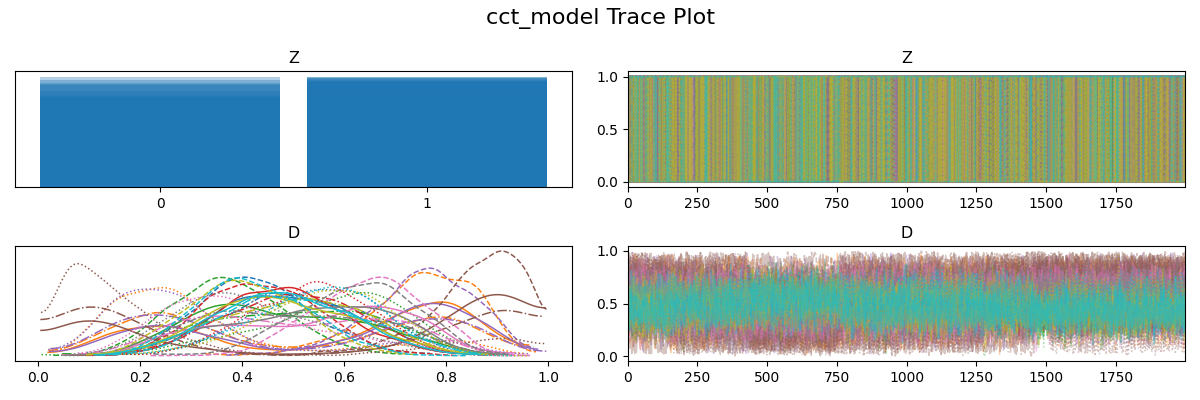
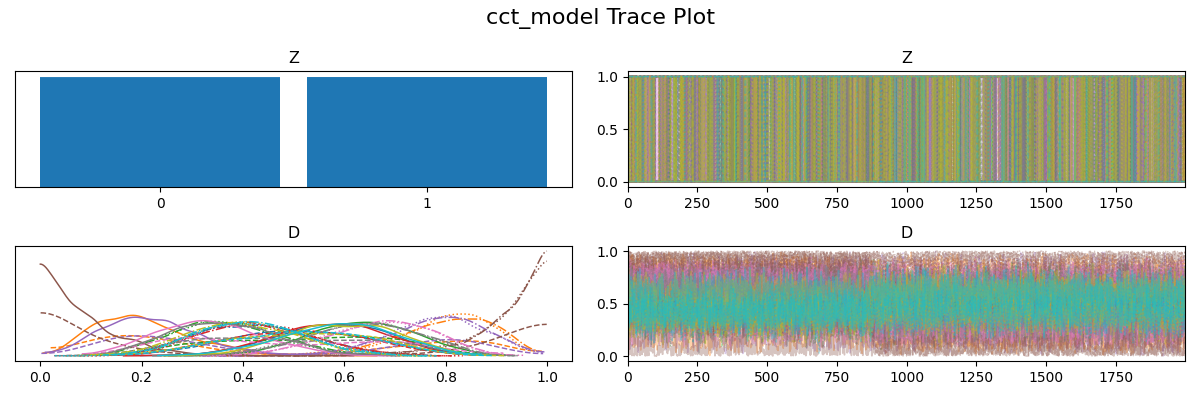
updated file paths & changed model line order

diff --git a/code/cct.py b/code/cct.py
@@ -1,110 +1,82 @@
-#modules
+
+#import modules
 import pandas as pd
+import numpy as np
 import pymc as pm
 import arviz as az
-import numpy as np
-import os
 import matplotlib.pyplot as plt
+from scipy.stats import mode
+from pathlib import Path
 
-###  LOAD DATA
-#read data as pandas dataframe
-df = pd.read_csv('~/project/cct-midterm/data/plant_knowledge.csv')
+#Used ChatGPT to fix file path & plot saving issues with this part
+# Set base path to project root regardless of where script is run
+BASE_DIR = Path(__file__).resolve().parents[1]
+PLOTS_DIR = BASE_DIR / 'plots'
+PLOTS_DIR.mkdir(exist_ok=True)
+
+### LOAD THE DATA
+#read csv into pandas dataframe
+df = pd.read_csv(BASE_DIR / 'data' / 'plant_knowledge.csv')
 df = df.drop(columns='Informant') #drop informant ID column
 print(df)
 #change to numpy array & reshape
 data = df.values
 N,M = data.shape
 
-###  MODEL
-
-#name model
-cct_model = pm.Model()
-
-#define model
-with cct_model:
-    #prior for D (competence) - vector of size N (# informants) 
-    #D = pm.Beta('D', alpha=2, beta=2, shape=N)
-    D = pm.Uniform('D', lower=0, upper=1, shape=N)
+### BUILD MODEL & DEFINE PRIORS
+#build the cct model
+with pm.Model() as cct_model:
+    #prior for D (competence) - vector of size N (# informants)
+    D = pm.Uniform('D', lower=0.5, upper=1.0, shape=N)
     #prior for Z (answer) - vector of size M (# items)
-    Z = pm.Bernoulli('Z',p=0.5, shape=M)
-    #reshape D
-    D_rs = D[:,None]
-    #probability equation
-    prob = Z*D_rs+(1-Z)*(1-D_rs)
-    #likelihood equation - using my updated data
-    Lh = pm.Bernoulli('Lh',p=prob, observed=data)
-    #take sample
-    #-----problem here????
-    idata_cct_model = pm.sample(draws=2000, chains=4, tune=2500, target_accept=0.95)
+    Z = pm.Bernoulli('Z', p=0.5, shape=M)
 
-###   INFERENCE
-#summary of posterior
-az.summary(idata_cct_model)
+    #reshape D 
+    D_reshaped = D[:, None]
 
-#trace plots
-az.plot_trace(idata_cct_model)
-
-#save inferences
-idata_cct_model.to_netcdf("cct_model_results.nc")
-
-#saving/viewing plots - USED CHATGPT FOR THESE FIRST LINES
-FIG_DIR = os.path.join(os.path.dirname(__file__), "..", "plots")
-os.makedirs(FIG_DIR, exist_ok=True)
-
-#save trace plot
-def save_trace_plot(idata, model_name="cct_model"):
+    #probability equation 
+    prob = Z * D_reshaped + (1 - Z) * (1 - D_reshaped)
+    #likelihood equation, using reshaped data
+    Lh = pm.Bernoulli('Lh', p=prob, observed=data)
     
-    #get variable names, except not the likelihood
-    var_names = [v for v in idata.posterior.data_vars if v != "Lh"]
+### PERFORM INFERENCE
+    #take sample
+    trace = pm.sample(draws=2000, chains=4, tune=1000, target_accept=0.9)
 
-    #make trace plot
-    az.plot_trace(idata, var_names=var_names)
-    plt.suptitle(f"{model_name} Trace Plot", fontsize=16)
-    plt.tight_layout()
-    trace_plot_path = os.path.join(FIG_DIR, f"{model_name}_trace_plot.png")
-    plt.savefig(trace_plot_path)
-    plt.close()
-save_trace_plot(idata_cct_model, model_name="cct_model")
-#convergence diagnostics
+#check convergence diagnostics
+summary = az.summary(trace, var_names=['D', 'Z'])
+print(summary)
 
+#visualize posterior dist for competence
+az.plot_posterior(trace, var_names=['D'])
+plt.tight_layout()
+plt.savefig(PLOTS_DIR / 'competence_posteriors.png')
 
 ### ESTIMATE INFORMANT COMPETENCE
-
-#take posterior samples of D
-D_post = idata_cct_model.posterior['D']
-#calc posterior mean for D
-D_mean = D_post.mean(dim=["chain", "draw"])
-print(D_mean)
-
-#make & save plot
-az.plot_posterior(idata_cct_model, var_names=['D'], hdi_prob=0.95)
-plt.suptitle(f"Posterior Distributions of Informant Competence (D)", fontsize=16)
-plt.tight_layout()
-plt.savefig(os.path.join(FIG_DIR, "informant_competence_posterior.png"))
-plt.close()
-
-#-----ISSUES HERE!!
-#find best & worst informants
-most_competent = D_mean.argmax(dim='informant')
-least_competent = D_mean.argmin(dim='informant')
-print(most_competent)
-print(least_competent)
+#find most and least competent informants
+competences = trace.posterior['D'].mean(dim=('chain','draw')).values
+most_competent = np.argmax(competences)
+least_competent = np.argmin(competences)
+print(f'most competent informant: {most_competent}, competence value: {competences[most_competent]:.2f}')
+print(f'least competent informant: {least_competent}, competence value: {competences[least_competent]:.2f}')
 
 ### ESTIMATE CONSENSUS ANSWERS
+#posterior mean prob for each answer consensus (Z)
+consensus_probs = trace.posterior['Z'].mean(dim=('chain','draw')).values
+print('posterior mean consensus probabilities:')
+print(consensus_probs)
 
-# #take posterior samples of Z
-Z_post = idata_cct_model.posterior['Z']
-#calc posterior mean for Z
-Z_mean = Z_post.mean(dim=["chain", "draw"])
-print(Z_mean)
+#most likely consensus answer key, using rounding
+consensus_key = np.round(consensus_probs).astype(int)
+print('consensus key from model:')
+print(consensus_key)
 
-# #round mean to get most likely consensus answer 
-Z_most_likely = np.round(Z_mean)
-print(Z_most_likely)
-
-# #make & save plot of consensus answers
-az.plot_posterior(idata_cct_model, var_names=['Z'], hdi_prob=0.95)
-plt.suptitle(f"Posterior Distributions of Consensus Answers (Z)", fontsize=16)
+#plot for posterior of consensus
+az.plot_posterior(trace, var_names=['Z'])
 plt.tight_layout()
-plt.savefig(os.path.join(FIG_DIR, "consensus_answers_posterior.png"))
-plt.close()
+plt.savefig(PLOTS_DIR / 'consensus_posteriors.png')
+
+#compare with naive majority vote
+majority = mode(data, axis=0, keepdims=False).mode
+print('naive majority vote answer key:')
+print(majority)
